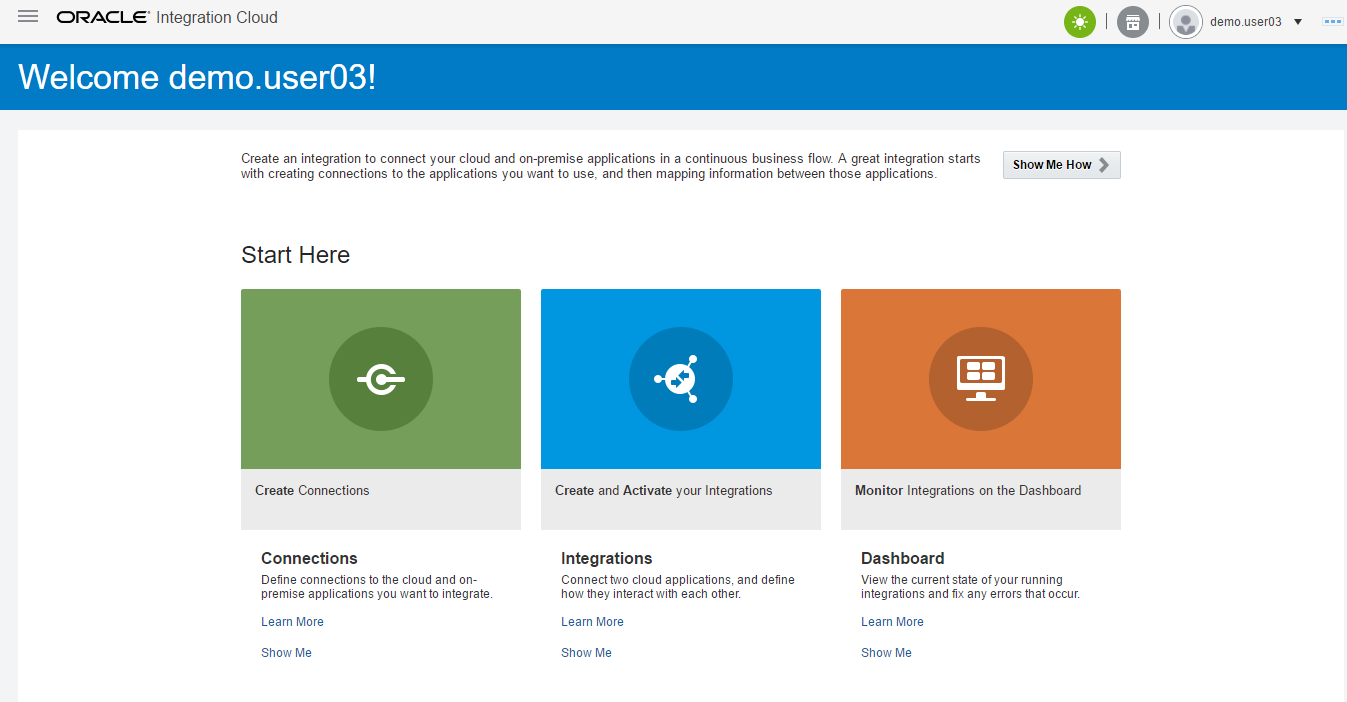
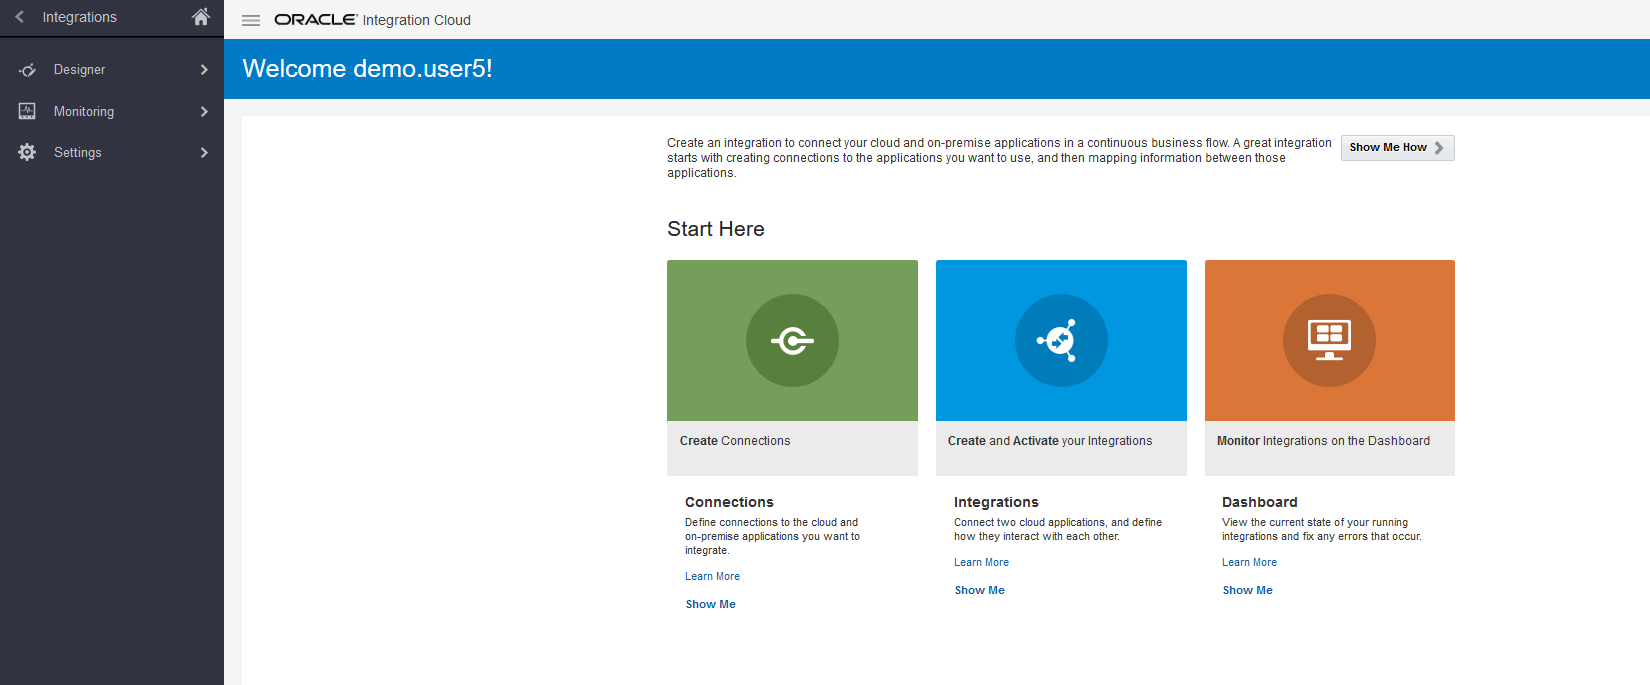
Made changes to use OIC

diff --git a/Home.md b/Home.md
@@ -1,13 +1,53 @@
-# ICS Developer Workshop
-<center>![](https://cloudaccelerate.github.io/TTC-CommonContent/images/ttc-logo.png)</center> 
+# OIC (ICS) Developer Workshop
 
-> Updated: March 9th, 2018
+![](images/j2c-logo.png)
 
+> Updated: March 12th, 2018
 
-# Journey To The Cloud: Oracle Integration Cloud (OIC) - Enterprise Integration Hands On Lab
-A hands-on workshop to dive into development on Oracle's Cloud Integration Platform
+## Journey To The Cloud: Oracle Integration Cloud (OIC) - Enterprise Integration Hands On Lab
+A hands-on workshop to dive into development on Oracle's Integration Cloud Platform
 
-## About
-Times are changing and things are getting simpler in the Cloud! At Oracle we have invested in delivering a plethora of new Cloud Services and we want to show you how simple – yet powerful they are.
+## Overview
+Enterprises can innovate faster, improve customer engagement, drive business-process efficiency, and accelerate digital transformation with Oracle Cloud. Oracle is the enterprise technology partner that positions companies for tomorrow, today; empowering businesses of all sizes on their journey of digital transformation. Oracle Cloud provides leading-edge capabilities in software as a service, platform as a service, infrastructure as a service, and data as a service.
 
-This workshop will focus on the Oracle Integration Cloud Service (ICS).  Oracle ICS delivers best in class “Hybrid” Integration. ICS is a simple and powerful integration platform in the cloud to maximize the value of your investments in SaaS and on-premises applications. It includes an intuitive web based integration designer for point and click integration between applications and a rich monitoring dashboard that provides real-time insight into the transactions, all running on a mature runtime platform on Oracle Public Cloud. ICS will help accelerate integration projects and significantly shorten the time-to-market through it's intuitive and simplified designer, an intelligent data mapper, and a library of adapters to connect to various applications.
+At Oracle we have invested in delivering a plethora of new Cloud Services and we want to show you how simple – yet powerful they are. We specifically wanted to focus on low code, high productivity services that can be used in building enterprise grade solutions. We believe the best way to do this is to showcase a real world business solution comprised of these services. You will build the entire solution during the course of this workshop all in a stress-free fun environment. 
+
+This workshop will focus on the Integration Cloud Service (ICS) capabilities within Oracle Integration Cloud (OIC).  Oracle ICS delivers best in class “Hybrid” Integration. ICS is a simple and powerful integration platform in the cloud to maximize the value of your investments in SaaS and on-premises applications. 
+
+It includes an intuitive web based integration designer for point and click integration between applications and a rich monitoring dashboard that provides real-time insight into the transactions, all running on a mature runtime platform on Oracle Public Cloud. ICS will help accelerate integration projects and significantly shorten the time-to-market through it's intuitive and simplified designer, an intelligent data mapper, and a library of adapters to connect to various applications.
+
+## About OIC:
+
+Oracle Integration Cloud (OIC) brings together all the critical capabilities of a complete Application Integration, Process Automation, Visual Application Building and Integration Analytics solution into a single unified cloud service. Oracle Integration Cloud now brings real-time and batch based integration, structured and unstructured processes, case management, stream analytics, zero code integration insight etc, allowing customers to service all their end to end integration needs in one cohesive platform so that all users can now transition and collaborate across these capabilities and projects seamlessly.
+
+![](images/oic.png)
+
+### Oracle Integration Cloud Features
+
+- Integrate Applications - Deliver integrations up to 6X faster with pre-built adapters for your SaaS and on-premises systems.
+
+- Automate Processes - Streamline your digital workforce with an easy, visual, low-code process automation platform that simplifies day to day tasks by getting employees, customers, and partners the services they need to work anywhere, anytime, and on any device.
+
+- Build Applications Visually - Rapidly create and host engaging business applications with a visual development environment right from the comfort of your browser. Define business objects, integrate data from external system, incorporate business processes, and design tailored interfaces to create your apps.
+
+- Gain Insight - Gain real-time insight into end-to-end processes with guidance on best next steps for your business operational excellence and run massively parallel real-time analytics on streaming data for instant actionable insights. 
+
+## Hands-on Lab Overview
+This hands-on lab will allow participants to do the following:
+- Lab 100 - Explore Oracle Integration Cloud Service
+- Lab 200 - Create a simple Hello World API echo service
+- Lab 300 - Create an API to retrieve enterprise information from an On-Premise Oracle Database using OIC Connectivity Agent
+- Lab 400 - Implement an Order API to create Orders in an On-Premise Enterprise Application (Oracle EBusiness Suite)
+
+The ICS integration that we'll be working with is shown in the following picture:
+
+![](images/overview-image.png)
+
+Here is a description of what is happening with this integration:
+
+SoapUI will be used to test the exposed Web Service endpoint of the ICS integration called *UserXX Create EBS Order* (where XX will be 00 -> 10).  This integration has 3 connections.  The incoming message is received by the incoming *UserXX SOAP* Soap Connection.  The *UserXX Create EBS Order* orchestration makes 1 query into the database using the *UserXX Oracle DB 12c* connection to get details needed to create an order.  The orchestration finally uses the *UserXX EBS OPERATIONS* EBS Adapter connection for creating the order in EBS.  After the order is created in EBS, the Order Number is returned to the calling web service.
+
+## Get Started: 
+Open the navigation menu using the hamburger icon in the upper left of the menu bar to choose a lab guide and get started.
+
+The hamburger menu has an icon that looks like this: <img src="images/menu.svg">

diff --git a/ics100.md b/ics100.md
@@ -23,17 +23,9 @@ We’ll look at the following:
 3.	ICS Monitoring User Interface
 4.  ICS Connectivity Agents - view more about them [here](https://www.youtube.com/watch?v=nsbvR027GXY&list=PLKCk3OyNwIzumLMaNpSEDXCaYqyRCBAX-&index=13)
 
-The ICS integration that we'll be working with is shown in the following picture:
+Let’s start by logging into the Oracle Integration Cloud and explore OIC Dashboard
 
-![](images/100/image000.png)
-
-Here is a description of what is happening with this integration:
-
-SoapUI will be used to test the exposed Web Service endpoint of the ICS integration called *UserXX Create EBS Order* (where XX will be 00 -> 10).  This integration has 3 connections.  The incoming message is received by the incoming *UserXX SOAP* Soap Connection.  The *UserXX Create EBS Order* orchestration makes 1 query into the database using the *UserXX Oracle DB 12c* connection to get details needed to create an order.  The orchestration finally uses the *UserXX EBS OPERATIONS* EBS Adapter connection for creating the order in EBS.  After the order is created in EBS, the Order Number is returned to the calling web service.
-
-Let’s start by logging into the Oracle Cloud account and explore the Services Dashboard
-
-## 1.1: Explore the Oracle Cloud Dashboard
+## 1.1: Explore the Oracle Integration Cloud Dashboard
 
 ### **1.1.1**: Login to your Oracle Cloud account
 
@@ -43,43 +35,58 @@ Let’s start by logging into the Oracle Cloud account and explore the Services 
 <https://cloud.oracle.com>
 
 **1.1.1.2** Click _Sign In_ in the upper right hand corner of the browser
-**IMPORTANT** - Under My Services, change Data Center to `US Commercial 2 (us2)` and click on Sign In to My Services
+**IMPORTANT** - Make sure `Cloud Account with Identity Cloud Service` is selected Under Cloud Account, Enter **Cloud Account Name** provided by your instructor and Click on `My Services >` 
 
 ![](images/300/image001.png)
 
-**1.1.1.3** If your identity domain is not already set, enter it and click **Go**
-
-**NOTE:** the **Identity Domain** values will be given to you from your instructor.
-
-![](images/300/image002.png)  
-
-**1.1.1.4** Once your Identity Domain is set, enter your `User Name` and `Password` and click **Sign In**
+**1.1.1.3** Enter your `User Name` and `Password` and click **Sign In**
 
 ***NOTE:*** the **User Name and Password** values will be given to you by your instructor.
 
-![](images/300/image003.png)  
+![](images/300/image002.png)  
 
-**1.1.1.5** You will be presented with a Dashboard displaying the various cloud services available to this account.
+**1.1.1.4** You will be presented with a Dashboard displaying the various cloud services available to this account.
 
 **NOTE:** The Cloud Services dashboard is intended to be used by the *Cloud Administrator* user role.  The Cloud Administrator is responsible for adding users, service instances, and monitoring usage of the Oracle cloud service account.  Developers and Operations roles will go directly to the service console link, not through the service dashboard.
 
+![](images/300/image003.png)
+
+**1.1.1.5** The Service Administrator can also look at Billing and Monitoring Metrics to understand how the service is being consumed by your Enterprise
+
 ![](images/300/image004.png)
 
-**1.1.1.6**  To get to the Integration Cloud Service (ICS) service console where you will work on developing the integration, click on the `hamburger` icon in the _Integration_ section, then click on the `View Details` link.
+**1.1.1.6** Selecting `View Details` link will take you to the Service Overview page where there are links for Billing and Monitoring Services. As this is a demonstration account, there is no Billing and Monitorin information available.
+
+![](images/300/image004e.png)
+
+**1.1.1.7**  To get to Oracle Integration Cloud (OIC) service console where you will work on developing the integration, click on the `Open Service Console`. This will display OIC Service Instance Page listing all OIC Services provisioned in the Cloud Account.
 
 ![](images/300/image004a.png)
 
-**1.1.1.7**  Select the `Open Service Console` link to go to the ICS Service Console.  
+**1.1.1.8**  Click on Hamburger menu for OIC Instance `j2cicspcs` and Select the `Open Integration Cloud Home Page` link to go to the OIC Welcome Page.  
 
-![](images/300/image004b.png)  
+![](images/300/image004b.png) 
 
-**1.1.1.8**  You will now be presented with the ICS Service Console from which you will be performing the rest of this workshop lab.
+**NOTE:** If you get an **Authentication Required** Pop-Up Window to re-enter user credentials, select `Cancel` to continue. 
 
-![](images/300/image004c.png)  
+**1.1.1.9**  Click on `Home` Link to go to OIC Home Page
+
+![](images/300/image004f.png) 
+
+**1.1.1.10**  Click on `Integrations` and you will now be presented with the Integration Service Console from which you will be performing the rest of this workshop lab.
+
+![](images/300/image004h.png)  
 
 ## 1.2: Explore the ICS Designer User Interface
-
 ---
+
+**NOTE** If you want ICS users to go directly to ICS Home Page, you can bookmark the Home Page URL
+
+ICS Home Page - https://<OIC Instance URL/ic/integration/home/faces/global
+
+Open a new Browser Tab and enter the Enter **ICS Home Page URL** provided by your instructor
+
+![](images/300/image004c.png) 
 
 ### **1.2.1:**	Explore ICS Connections
 
